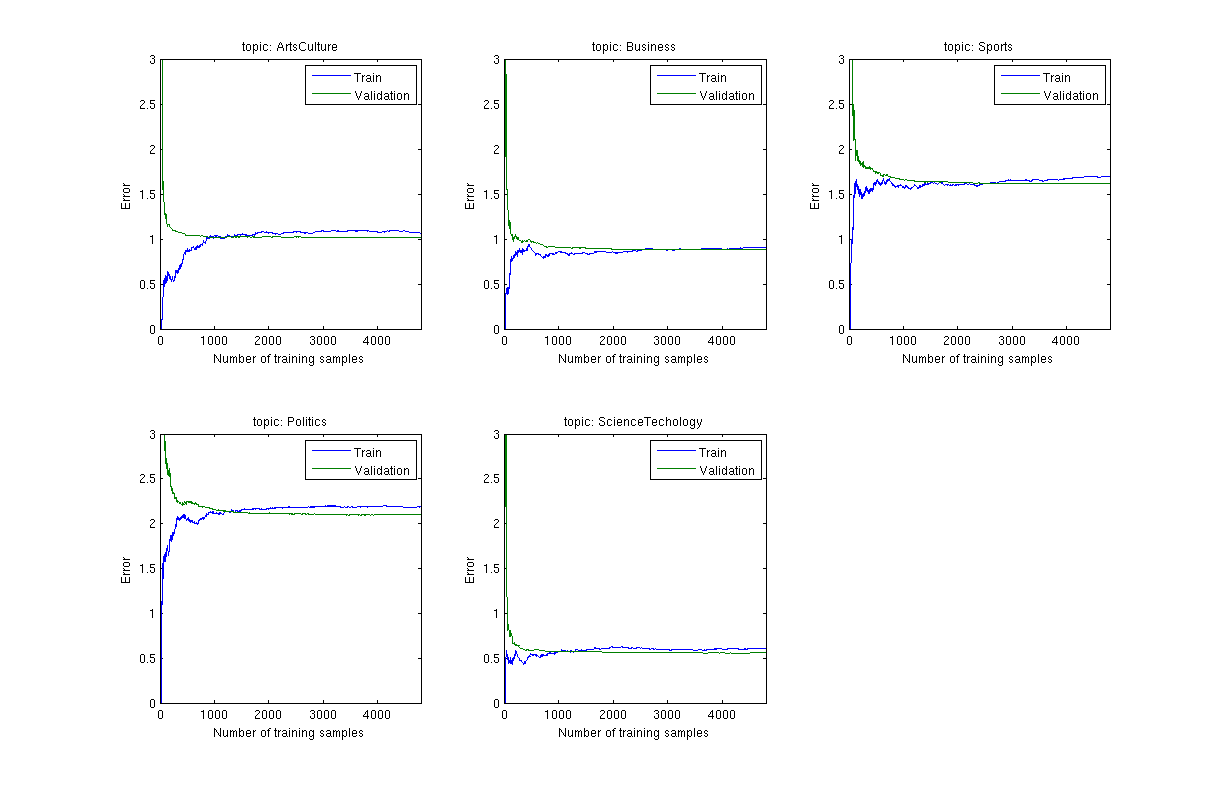
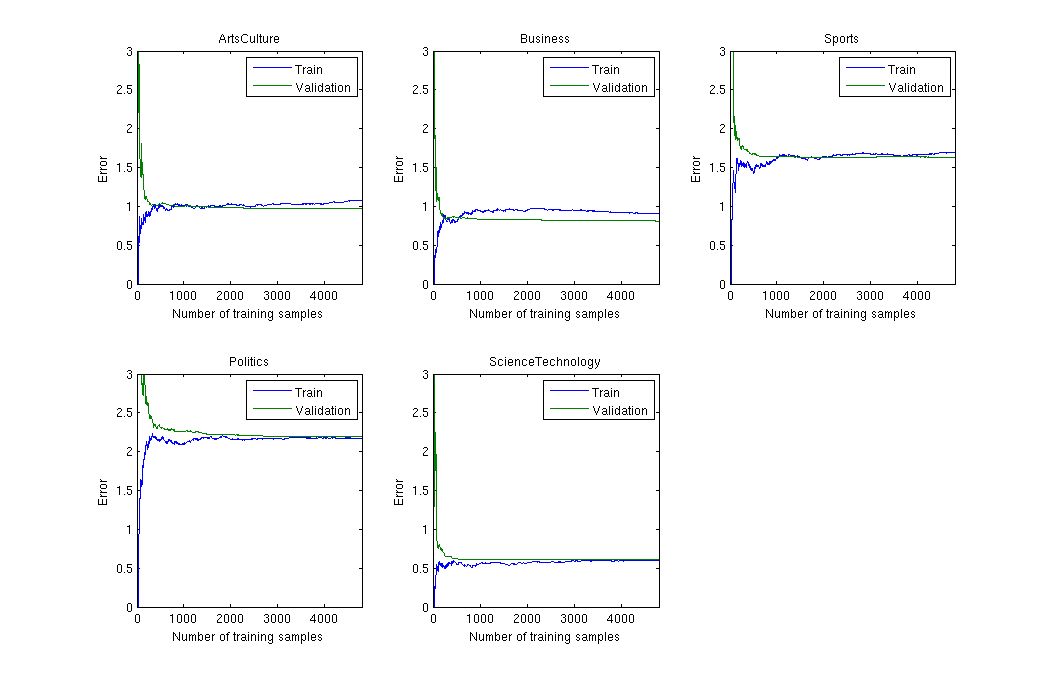
update results add boxplot

diff --git a/TweetClassify/matlab/Run.m b/TweetClassify/matlab/Run.m
@@ -2,41 +2,56 @@
 clear; close all; clc
 
 %% check different regularized parameter with errors
-%for j = 1:10
-%    figure;
-%    for i = 1:5
-%        lambda_test(i);
-%    end
-%end
+%% to get average results, you can change j = 1: (some other numbers)
+for j = 1:1
+    figure;
+    for i = 1:5
+        lambda_test(i);
+    end
+end
 
-%for i = 1:10
-%    figure;
+
+train_errors = zeros(4800,5);
+val_errors = zeros(4800,5);
+
+%% to get average results, you can change i = 1: (some other numbers)
+for i = 1:1
+    figure;
     
 %% Run for topic ArtsCulture    
-%    topic = 1;
-%    lambda = 0;
-%    [x1,y1,theta1] = main(topic,lambda);
+    topic = 1;
+    lambda = 0;
+    [x1,y1,theta1,train_errors(:,1),val_errors(:,1)] = main(topic,lambda);
 
 %% Run for topic Business
-%    topic = 2;
-%    lambda = 0;
-%    [x2,y2,theta2] = main(topic,lambda);
+    topic = 2;
+    lambda = 0;
+    [x2,y2,theta2,train_errors(:,2),val_errors(:,2)] = main(topic,lambda);
 
 %% Run for topic Sports 
-%    topic = 3;
-%    lambda = 0;
-%    [x3,y3,theta3] = main(topic,lambda);
+    topic = 3;
+    lambda = 0;
+    [x3,y3,theta3,train_errors(:,3),val_errors(:,3)] = main(topic,lambda);
 
 %% Run for topic Politics    
-%    topic = 4;
-%    lambda = 0;
-%    [x4,y4,theta4] = main(topic,lambda);
+    topic = 4;
+    lambda = 0;
+    [x4,y4,theta4,train_errors(:,4),val_errors(:,4)] = main(topic,lambda);
 
 %% Run for topic ScienceTechnology    
-%    topic = 5;
-%    lambda = 0;
-%    [x5,y5,theta5] = main(topic,lambda);
-%end
+    topic = 5;
+    lambda = 0;
+    [x5,y5,theta5,train_errors(:,5),val_errors(:,5)] = main(topic,lambda);
+end
+
+figure;
+boxplot(train_errors,'Labels',{'ArtsCulture','Business','Sports','Politics','ScienceTechnology'});
+title('Training errors')
+
+figure;
+boxplot(val_errors,'Labels',{'ArtsCulture','Business','Sports','Politics','ScienceTechnology'});
+title('Validation errors')
+ylim([0.5 2.5])
 
 %% init iteration times
 iter = 100;
@@ -54,13 +69,13 @@ for i = 1:iter
 end
 
 %% plot errors_trains
-t = ['ArtsCulture' 'Business' 'Sports' 'Politics' 'ScienceTechnology'];
+t = {'ArtsCulture' 'Business' 'Sports' 'Politics' 'ScienceTechnology'};
 figure;
 for i = 1:5
     subplot(2,3,i);
     hist(errors_train(:,i)',10);
     title(t(i))
-    legend('Training Error')
+   
     xlabel('Error')
     ylabel('Count Errors')
 
@@ -72,7 +87,7 @@ for i = 1:5
     subplot(2,3,i);
     hist(errors_val(:,i)',10);
     title(t(i))
-    legend('Validation Error')
+   
     xlabel('Error')
     ylabel('Count Errors')
 

diff --git a/TweetClassify/matlab/main.m b/TweetClassify/matlab/main.m
@@ -1,4 +1,4 @@
-function [Xval,Yval,theta] = main(topic,lambda)
+function [Xval,Yval,theta,train_error,val_error] = main(topic,lambda)
 
 %% load data
 [X,Y,Xval,Yval] = loadData(topic);
@@ -23,7 +23,7 @@ Xval = [ones(n,1) Xval];
 train_error = zeros(m,1);
 val_error = zeros(m,1);
 
-t = ['ArtsCulture' 'Business' 'Sports' 'Politics' 'ScienceTechnology'];
+t = {'ArtsCulture' 'Business' 'Sports' 'Politics' 'ScienceTechnology'};
 
 %% Run linear regression and plot training error with validation error
 
@@ -43,6 +43,8 @@ legend('Train','Validation')
 xlabel('Number of training samples')
 ylabel('Error')
 axis([0 m 0 3])
+
+
 
 %% Polynomial Regression
 

diff --git a/TweetClassify/matlab/lambda_test.m b/TweetClassify/matlab/lambda_test.m
@@ -29,7 +29,7 @@ t = ['ArtsCulture' 'Business' 'Sports' 'Politics' 'ScienceTechnology'];
 subplot(2,3,topic);
 plot(lambda_vec,train_error,lambda_vec,val_error);
 title(t(topic))
-legend('Train', 'Cross Validation')
+legend('Train', 'Validation')
 xlabel('lambda')
 ylabel('Error')
 %axis([0 10 0 100]);
